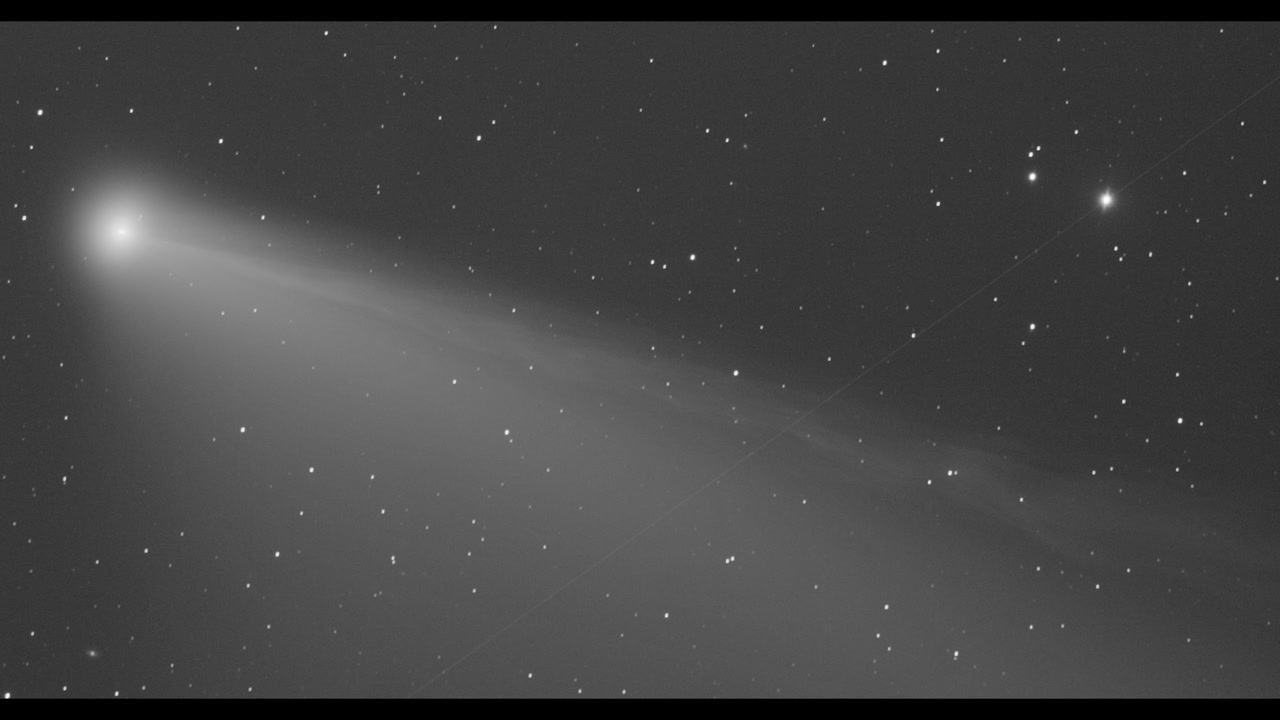
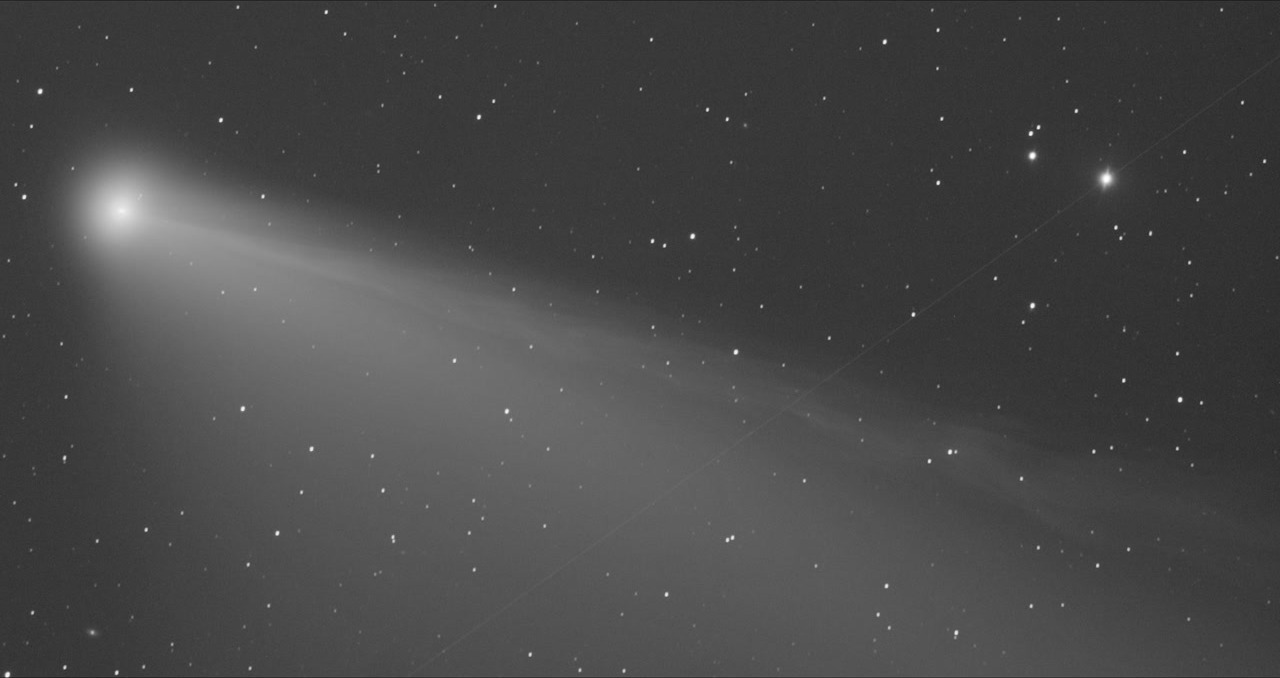
Crop letterbox bars from the Comet Neowise video frame and thumbnail
The source still (a frame grab from the timelapse video) had thin black
bars baked into the top and bottom of the 1280x720 frame. That meant
the gallery thumbnail's 4:3 cover-crop, and the hero image's full-width
display, both showed a strip of black instead of sky. Cropped the bars
out of both the source photo and the video poster (top=21px,
height=678px, measured via row-brightness sampling), so the comet now
fills the frame everywhere it's used.

The embedded video itself still has the bars baked into every encoded
frame (re-encoding isn't practical here), so added an opt-in
data-crop-letterbox attribute to .ke-video in BaseLayout that applies
object-fit: cover, paired with an inline aspect-ratio set to the video's
real content ratio -- crops the bars out visually during playback
without touching the file.

diff --git a/src/content/gallery/comet-neowise-timelapse.md b/src/content/gallery/comet-neowise-timelapse.md
@@ -8,7 +8,7 @@ draft: false
 
 A time-lapse capture of Comet NEOWISE (C/2020 F3) and its long, sweeping dust tail, taken shortly after the comet's closest approach to Earth in July 2020.
 
-<video class="ke-video" controls preload="metadata" poster="/images/gallery/comet-neowise-timelapse-poster.jpg" src="/videos/comet-neowise-timelapse.mp4">
+<video class="ke-video" data-crop-letterbox controls preload="metadata" style="aspect-ratio: 1280 / 678;" poster="/images/gallery/comet-neowise-timelapse-poster.jpg" src="/videos/comet-neowise-timelapse.mp4">
 Your browser does not support embedded video. <a href="/videos/comet-neowise-timelapse.mp4">Watch the time lapse directly</a>.
 </video>
 